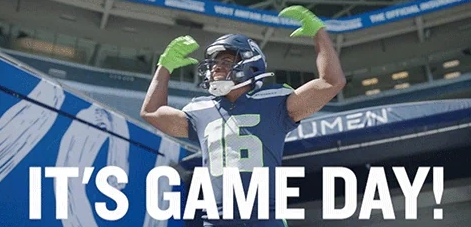
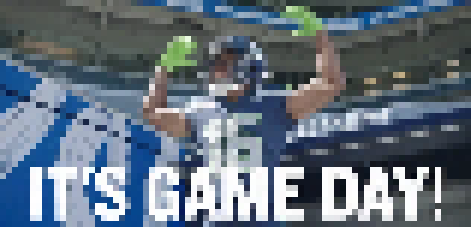
Use supplied pixelated image for Game Day card

diff --git a/index.html b/index.html
@@ -214,7 +214,7 @@
         </li>
         <li class="mindset-item">
           <article class="mindset-card mindset-card-image" aria-labelledby="game-day-title">
-            <img class="mindset-card-cover" src="assets/mindset-game-day.png" alt="An American football player raising his arms, with the words It’s game day." width="471" height="227" loading="lazy" decoding="async">
+            <img class="mindset-card-cover" src="assets/mindset-game-day.png?v=404f4582b9f4" alt="A pixelated image of an American football player raising his arms, with the words It’s game day." width="471" height="227" loading="lazy" decoding="async">
             <div class="mindset-card-body">
               <div class="mindset-card-heading">
                 <h3 id="game-day-title">“Today is GAME DAY! <span lang="pt-BR">VAMOOOSSSS.</span>”</h3>

diff --git a/README.md b/README.md
@@ -152,4 +152,4 @@ The approved execution card follows the growth card: “Planejação” (PT-BR),
 
 The approved adaptation card follows “Planejação”: “Todo planejamento foi feito para dar errado.” (PT-BR), the transition “In English, the idea is:”, and the English saying supplied by Paulo, “In theory, there is no difference between theory and practice. In practice, there is.” Its approved explanation is “However carefully we plan, something will fall outside the plan. We can’t control everything. Accepting that helps me take changes in stride and stay open to the unexpected.” No author attribution is inferred. The 2:1 image header uses the pixelated riverfront photo supplied by Paulo in `mindset-planning-reality-pixel.zip`, showing the colorful crab sculpture, river, city buildings and yellow facade. The extracted PNG is served byte-for-byte unchanged as `assets/mindset-planning-reality-pixelated.png`, with explicit dimensions, lazy loading and a versioned URL to refresh cached copies. No image generation or additional effects are applied to this supplied asset.
 
-The approved game-day card follows the adaptation card: “Today is GAME DAY! VAMOOOSSSS.” The approved explanation is “I say this to get the team fired up and focused on our purpose and mission. Athletes train for game day—the moment to put that preparation into action. It’s a reminder for us to show up ready, focused and committed.” The title is in English, with the Portuguese cheer annotated using `lang="pt-BR"`; it has no translation transition or language badge. Paulo’s supplied 471×227 PNG, showing an American football player and the words “IT’S GAME DAY!”, is served byte-for-byte unchanged as `assets/mindset-game-day.png`. Its source ZIP is `Captura de ecrã 2026-10-12 003335.zip`; no event date or player identity is inferred. The existing 2:1 card cover, explicit dimensions and lazy loading preserve the established carousel behavior.
+The approved game-day card follows the adaptation card: “Today is GAME DAY! VAMOOOSSSS.” The approved explanation is “I say this to get the team fired up and focused on our purpose and mission. Athletes train for game day—the moment to put that preparation into action. It’s a reminder for us to show up ready, focused and committed.” The title is in English, with the Portuguese cheer annotated using `lang="pt-BR"`; it has no translation transition or language badge. Paulo’s supplied pixelated 471×227 PNG, showing an American football player and the words “IT’S GAME DAY!”, is served byte-for-byte unchanged as `assets/mindset-game-day.png`. Its source ZIP is `Captura de ecrã 2026-10-12 003335-pixel.zip`; no event date or player identity is inferred. A versioned image URL refreshes cached copies after the replacement. The existing 2:1 card cover, explicit dimensions and lazy loading preserve the established carousel behavior.
